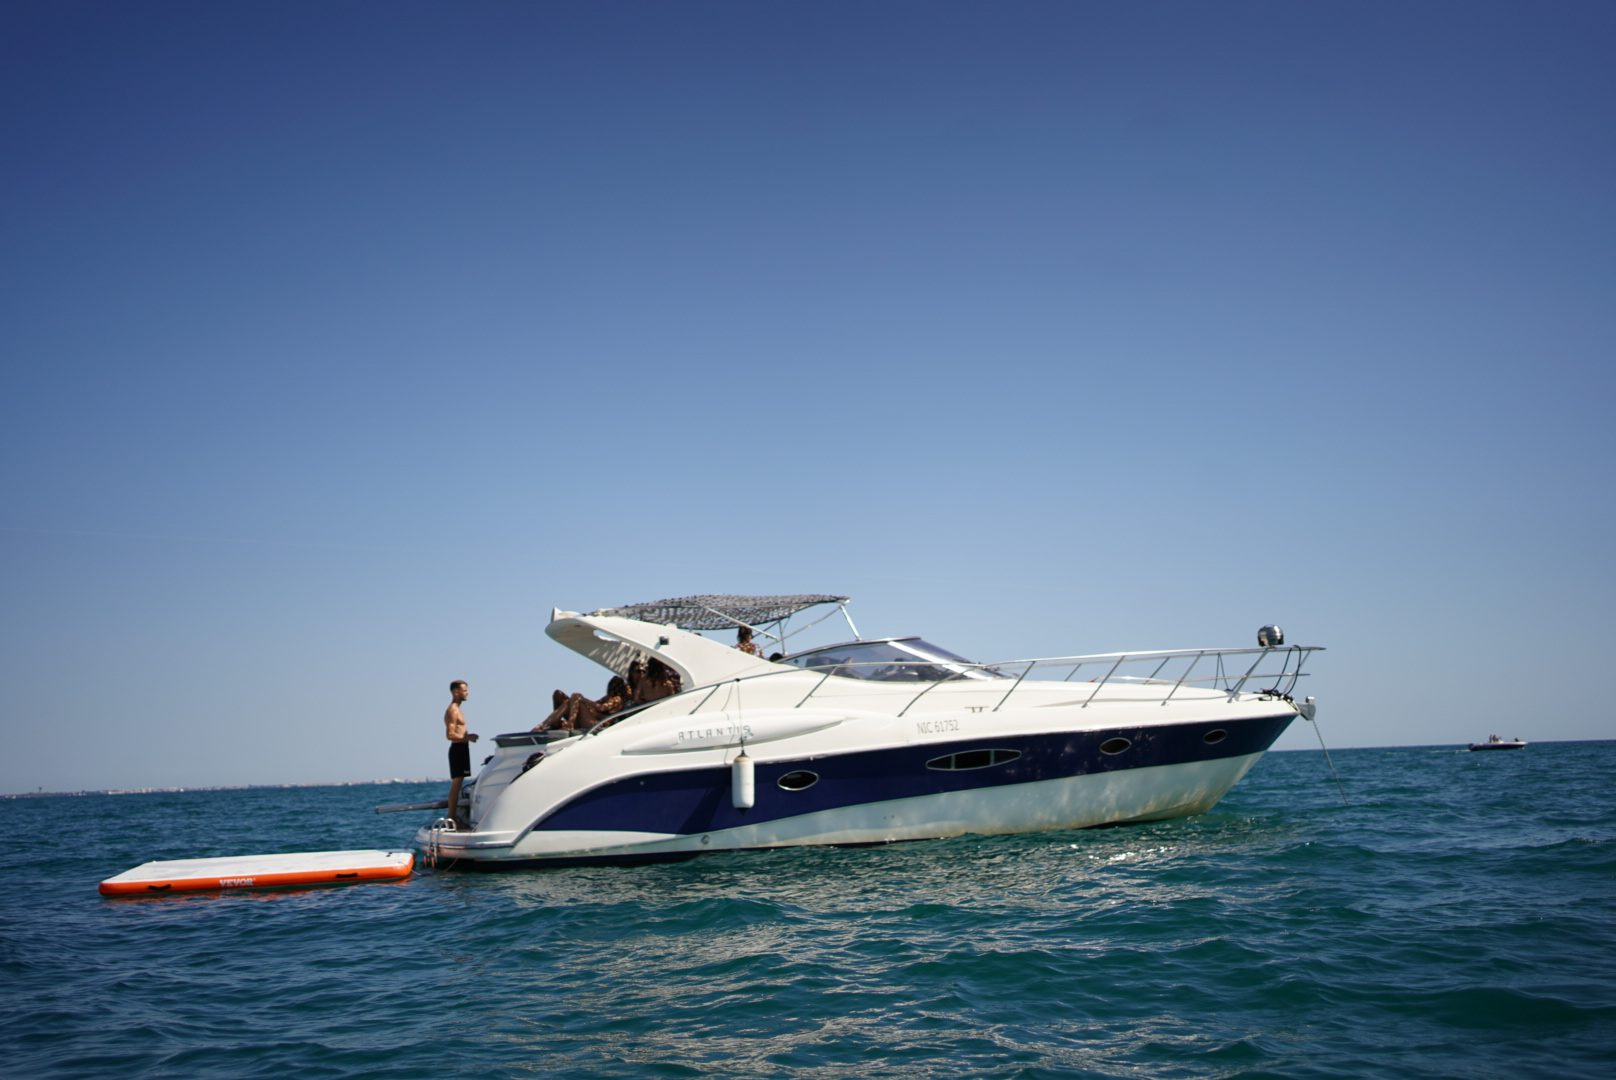
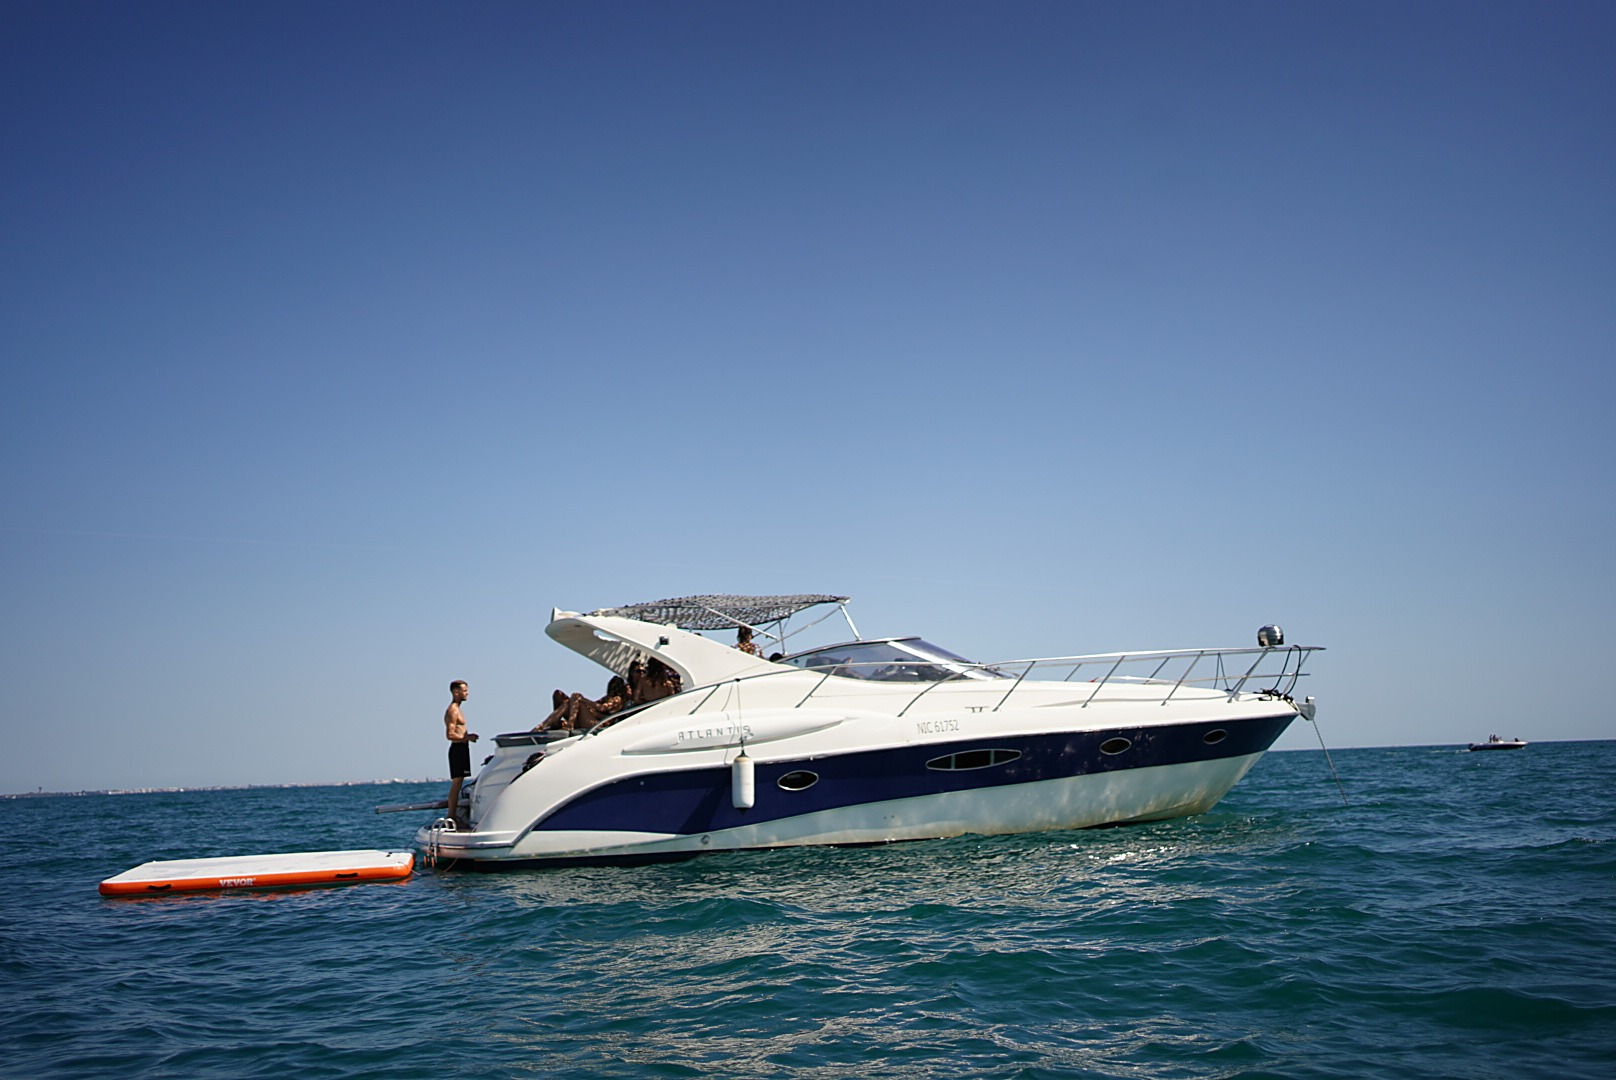
Qualite photo hero + tarifs statiques
- Reexport des images : qualite 88-92, nettete (unsharp mask),
  hero a la resolution native sans recompression agressive
- Ken Burns reduit (1.01-1.07 au lieu de 1.05-1.16) pour limiter
  l'agrandissement qui rendait le hero flou sur mobile
- Voile du hero allege (plus de blanc laiteux) + saturation/contraste
  legers sur la photo, cadrage center 62%
- Suppression de l'animation compteur sur les tarifs (580 / 1 200
  affiches en statique)

Claude-Session: https://claude.ai/code/session_017Ne4sMhdxbunVPigZtrtrw

diff --git a/index.html b/index.html
@@ -289,18 +289,19 @@ body.ready .hero .ln,
 .hero-bg { position: absolute; inset: 0; z-index: 0; overflow: hidden; will-change: transform; }
 /* Remplacer par votre photo : hero-bg.jpg (yacht en mer, plein cadre) */
 .hero-bg-img {
-  position: absolute; inset: -6%;
+  position: absolute; inset: -3%;
   background-color: #7d8c99;
   background-image: url("hero-bg.jpg");
-  background-size: cover; background-position: center;
-  animation: kenburns 20s var(--ease) infinite alternate;
+  background-size: cover; background-position: center 62%;
+  filter: saturate(1.08) contrast(1.05);
+  animation: kenburns 22s var(--ease) infinite alternate;
 }
-@keyframes kenburns { from { transform: scale(1.05); } to { transform: scale(1.16) translateY(-1.5%); } }
+@keyframes kenburns { from { transform: scale(1.01); } to { transform: scale(1.07) translateY(-1%); } }
 .hero-veil {
   position: absolute; inset: 0; z-index: 1;
   background:
-    linear-gradient(180deg, rgba(245,240,232,0.10) 0%, rgba(27,58,92,0.20) 45%, rgba(15,34,56,0.55) 100%),
-    radial-gradient(120% 90% at 50% 40%, rgba(255,255,255,0.08), rgba(15,34,56,0.30) 100%);
+    linear-gradient(180deg, rgba(15,34,56,0.08) 0%, rgba(15,34,56,0.10) 45%, rgba(15,34,56,0.52) 100%),
+    radial-gradient(130% 80% at 50% 30%, rgba(15,34,56,0.14), rgba(15,34,56,0.02) 60%);
 }
 .hero-canvas { position: absolute; inset: 0; width: 100%; height: 100%; z-index: 2; pointer-events: none; }
 /* L'eau interactive — réagit au passage de la souris */
@@ -882,7 +883,7 @@ body.ready .hz { animation: heroUp 1.15s var(--ease) forwards; animation-delay: 
       <article class="offer-card tilt reveal" style="--d:.05s">
         <h3 class="offer-name">Escapade en Mer</h3>
         <div class="offer-dur">Sortie · 2 heures</div>
-        <div class="offer-price"><span class="c">€</span><span data-count="580">0</span></div>
+        <div class="offer-price"><span class="c">€</span>580</div>
         <div class="offer-note">Forfait privatisé — jusqu'à 10 passagers</div>
         <div class="offer-sep"></div>
         <ul class="incl">
@@ -900,7 +901,7 @@ body.ready .hz { animation: heroUp 1.15s var(--ease) forwards; animation-delay: 
         <span class="offer-badge">Exclusif</span>
         <h3 class="offer-name">Grand Large Prestige</h3>
         <div class="offer-dur">Sortie · 4 heures</div>
-        <div class="offer-price"><span class="c">€</span><span data-count="1200" data-format="fr">0</span></div>
+        <div class="offer-price"><span class="c">€</span>1&nbsp;200</div>
         <div class="offer-note">Forfait privatisé — jusqu'à 10 passagers</div>
         <div class="offer-sep"></div>
         <ul class="incl">
